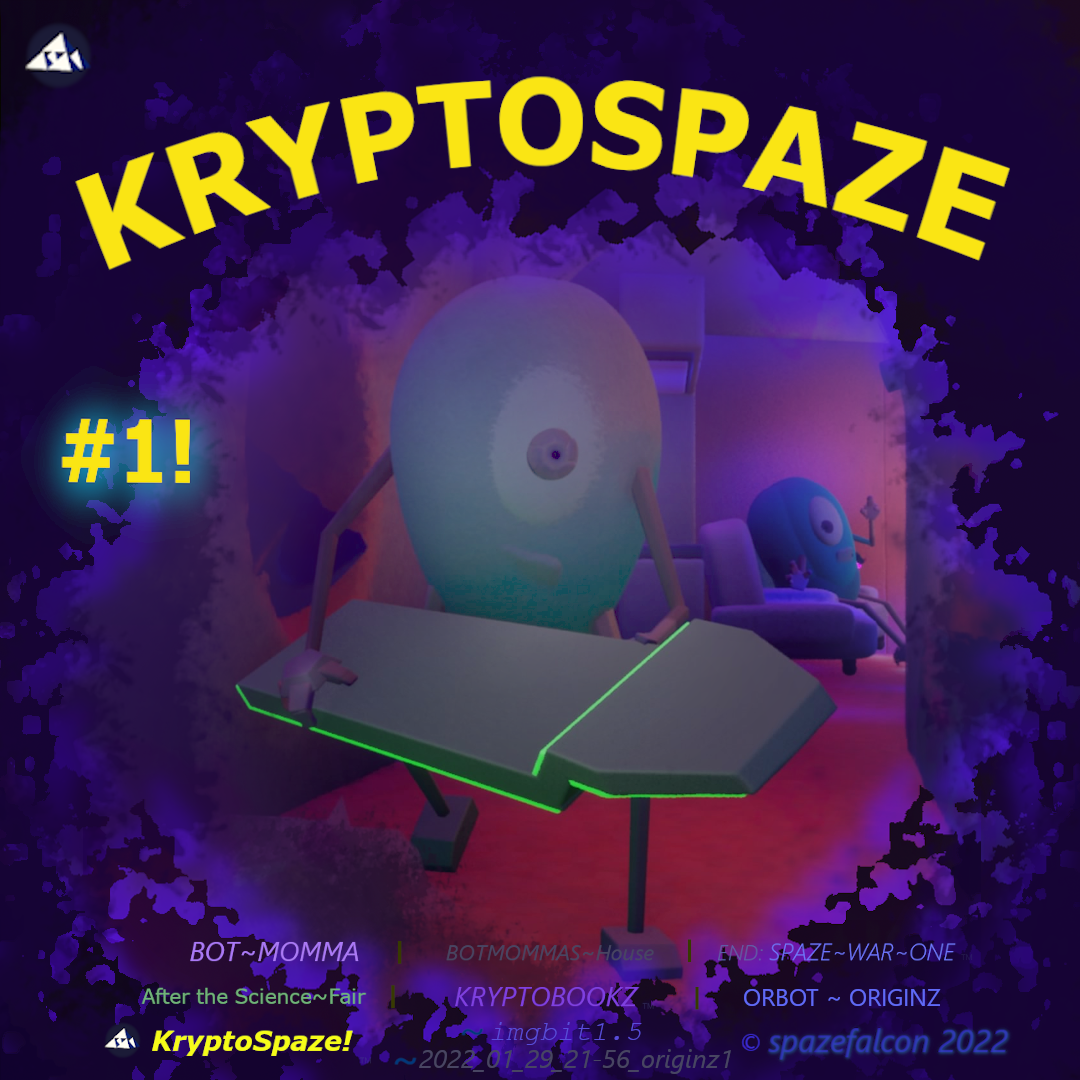
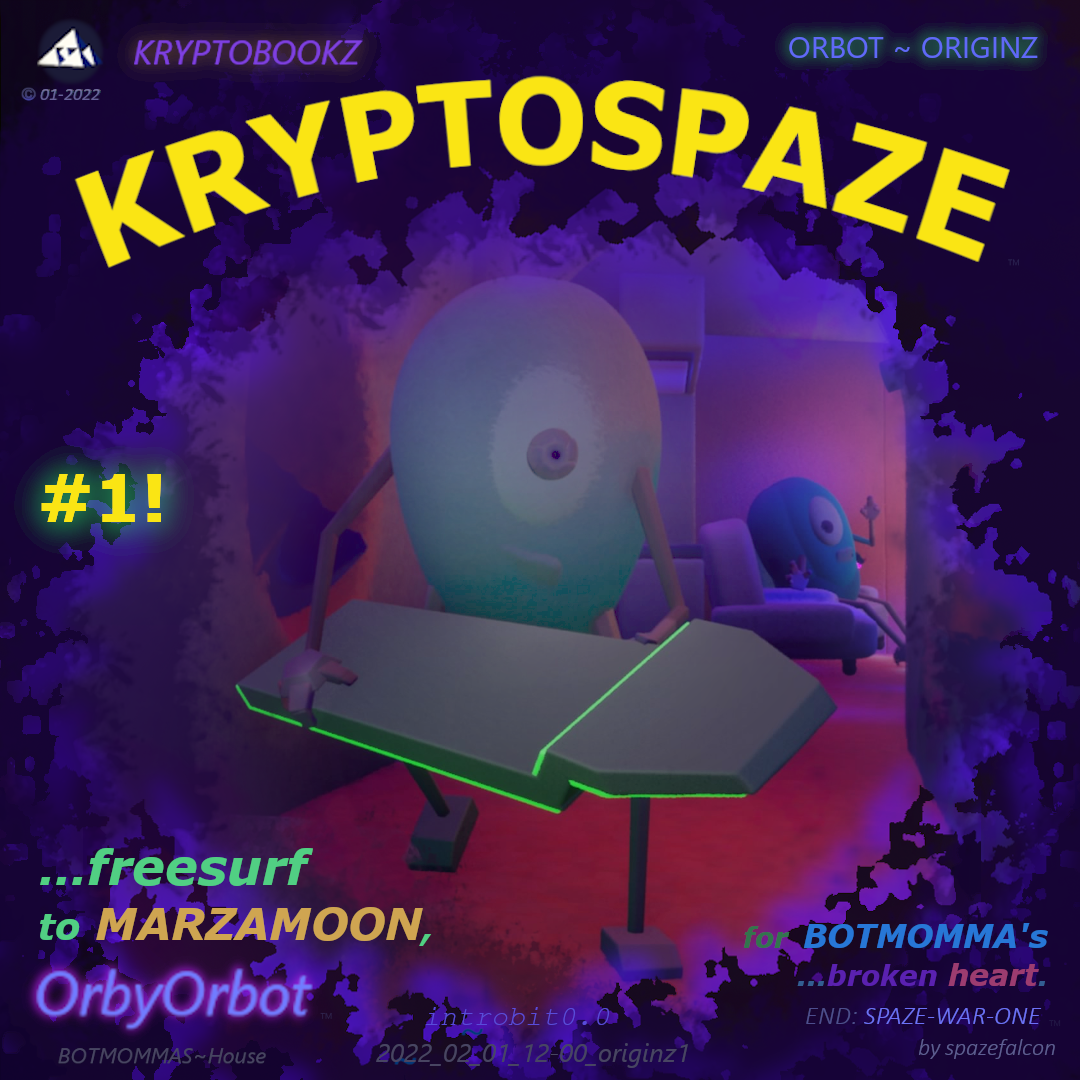
free scroll

diff --git a/KBZ_ENGINE_1.1.1/kryptoviz.js b/KBZ_ENGINE_1.1.1/kryptoviz.js
@@ -13,9 +13,11 @@
     // * by spazeFalcon
 
 // import { viz } from "./KBZ_ENGINE_1.1.1/kryptoviz.js";
-
-function createKRYPTOPAGE(bitz){
-//todo move to VIS
+/*********************************************************\
+ * CREATE-KRYPTO-PAGE - 
+ * //GENERIC CARD-TEMPLATE RENDERER (minimal behaviors)
+ \********************************************************/
+function createKRYPTOPAGE(bitz){  
     let pageFrame = document.createElement('section');
     pageFrame.style.backgroundColor = 'black';
     pageFrame.style.borderRadius = "10px";
@@ -37,8 +39,6 @@ function createKRYPTOPAGE(bitz){
     pageSpacer.style.boxShadow = "1px 1px 20px 0px blue";
     pageSpacer.classList.add('bit-spacer');
 
-
-
     var IMGBIT = document.createElement('article');
     IMGBIT.style.backgroundColor = 'black';
     // IMGBIT.style.backgroundColor = getRandoColor();
@@ -51,7 +51,6 @@ function createKRYPTOPAGE(bitz){
     IMGBIT.style.overflow = "hidden";     //CROP
     IMGBIT.style.marginBottom = "0em";   //CROP
 
-
     var imgCard1 = 0;
     if(bitz.IMG){
         imgCard1 = document.createElement('img'); //IMG  //OTHER IMAGE TYPES HERE
@@ -59,7 +58,7 @@ function createKRYPTOPAGE(bitz){
         imgCard1.style.width = "100%"
         imgCard1.style.boxShadow = `2px 2px 8px 4px ${getRandoColor()}`
         imgCard1.style.borderRadius = "18px"
-        imgCard1.style.marginBottom = "-6.666em"
+        imgCard1.style.marginBottom = "-6.666em"     //CROP
         imgCard1.addEventListener("click", ()=> {
             imgCard1.showDetails = (imgCard1.showDetails) ? 0 : 1;
             if(imgCard1.showDetails){
@@ -121,6 +120,112 @@ function createKRYPTOPAGE(bitz){
     if (pageFrame && TXTBIT) { pageFrame.insertAdjacentElement('beforeend', TXTBIT); }
     if (KRYPTOBOOKFrame1) { KRYPTOBOOKFrame1.insertAdjacentElement('beforeend', pageFrame); }
 } //END CREATE KRYPTO PAGE 
+/*********************************************************\
+ * Render KRYPTO INTRO.
+ * 
+ \********************************************************/
+ function createKRYPTOINTRO(bitz){  
+    let pageFrame = document.createElement('section');
+    pageFrame.style.backgroundColor = 'black';
+    pageFrame.style.borderRadius = "10px";
+    pageFrame.style.padding = "0.111em";
+    pageFrame.style.margin = "0.444em";
+    // pageFrame.style.marginBottom = "8.888%";
+    pageFrame.style.boxShadow = "1px 1px 20px 0px blue";
+    pageFrame.classList.add('bit-item');
+    pageFrame.id = bitz.IDX;//.replace('.','-'));
+    // console.log("render: ",bitz.IDX)
+    // let pageSpacer = document.createElement('section');
+    // pageSpacer.style.backgroundColor = 'black';
+    // pageSpacer.style.borderRadius = "10px";
+    // pageSpacer.style.padding = "0.111em";
+    // pageSpacer.style.margin = "0.444em";
+    // pageSpacer.style.height = "4.444em";
+    // // pageSpacer.style.marginBottom = "8.888%";
+    // pageSpacer.style.boxShadow = "1px 1px 20px 0px blue";
+    // pageSpacer.classList.add('bit-spacer');
+
+    var IMGBIT = document.createElement('article');
+    IMGBIT.style.backgroundColor = 'black';
+    // IMGBIT.style.backgroundColor = getRandoColor();
+    IMGBIT.style.border = "1px solid steelblue"
+    IMGBIT.style.borderRadius = "13px"
+    IMGBIT.style.padding = "0.888em"
+    IMGBIT.style.margin = "0.88em auto"
+    IMGBIT.style.maxWidth = "44em"
+    IMGBIT.style.cursor = "pointer"
+    // IMGBIT.style.overflow = "hidden";     //CROP
+    // IMGBIT.style.marginBottom = "0em";   //CROP
+
+    var imgCard1 = 0;
+    if(bitz.IMG){
+        imgCard1 = document.createElement('img'); //IMG  //OTHER IMAGE TYPES HERE
+        imgCard1.src = bitz.IMG; //large 600 size
+        imgCard1.style.width = "100%"
+        imgCard1.style.boxShadow = `2px 2px 8px 4px ${getRandoColor()}`
+        imgCard1.style.borderRadius = "18px"
+        // imgCard1.style.marginBottom = "-6.666em" //CROP
+        imgCard1.addEventListener("click", ()=> {
+            // imgCard1.showDetails = (imgCard1.showDetails) ? 0 : 1;
+            // if(imgCard1.showDetails){
+            //     imgCard1.style.marginBottom = "2.222em"
+            // }else{
+            //     imgCard1.style.marginBottom = "-6.666em"
+            // }
+        })
+    } 
+
+    // var TXTBIT = 0;
+    // if(bitz.TXT){
+    //     TXTBIT = document.createElement('article');
+    //     TXTBIT.style.backgroundColor = 'black';
+    //     // TXTBIT.style.backgroundColor = getRandoColor();
+    //     TXTBIT.style.boxShadow = "0px 0px 20px 1px blue"
+    //     TXTBIT.style.border = "1px solid purple"
+    //     TXTBIT.style.borderRadius = "13px"
+    //     TXTBIT.style.padding = "0.888em"
+    //     TXTBIT.style.margin = "0.88em auto"
+    //     TXTBIT.style.maxWidth = "42em"
+    //     TXTBIT.style.cursor = "pointer"
+    //     TXTBIT.style.overflow = "hidden";     //CROP
+    //     TXTBIT.style.marginBottom = "1em";   //CROP
+    //     TXTBIT.style.marginTop = "-6em";    //OVERLAP
+    //     TXTBIT.style.borderTop = "none";    //OVERLAP
+    // } else { //no btz.TXT
+        // pageFrame.style.marginTop="6.666em";  //no txt padding
+        // pageFrame.style.marginBottom="6.666em"; //no txt padding
+    // }
+
+    // var txtCard2 = 0;
+    // if(bitz.TXT){
+    //     txtCard2 = document.createElement('img'); //IMG  //OTHER IMAGE TYPES HERE
+    //     txtCard2.src = bitz.TXT; //large 600 size
+    //     txtCard2.style.width = "100%"
+    //     txtCard2.style.maxWidth = "32em"
+    //     // txtCard2.style.boxShadow = `2px 2px 8px 4px ${getRandoColor()}`
+    //     txtCard2.style.boxShadow = "inset rgb(30 84 200) 2px 2px 14px 8px"
+    //     txtCard2.style.borderRadius = "18px"
+    //     // txtCard2.style.marginBottom = "-6em"
+    //     txtCard2.style.marginBottom = "-5.666em"
+    //     txtCard2.style.marginTop = "3em"
+    //     txtCard2.addEventListener("click", ()=> {
+    //         txtCard2.showDetails = (txtCard2.showDetails) ? 0 : 1;
+    //         if(txtCard2.showDetails){
+    //             txtCard2.style.marginBottom = "0em"
+    //         }else{
+    //             txtCard2.style.marginBottom = "-5.666em"
+    //         }
+    //     })
+    // } 
+    //TODO Logic to add remove PAGE_SPACER, title page somehow...   
+    // if (KRYPTOBOOKFrame1 && bitz.IDX!="1.0") { KRYPTOBOOKFrame1.insertAdjacentElement('beforeend', pageSpacer); }
+    // if (pageFrame && pageCard) { pageFrame.insertAdjacentElement('beforeend', pageCard); }
+    if(imgCard1 && IMGBIT){IMGBIT.insertAdjacentElement('afterbegin', imgCard1);}
+    // if(txtCard2 && TXTBIT){TXTBIT.insertAdjacentElement('afterbegin', txtCard2);}
+    if (pageFrame && IMGBIT) { pageFrame.insertAdjacentElement('beforeend', IMGBIT); }
+    // if (pageFrame && TXTBIT) { pageFrame.insertAdjacentElement('beforeend', TXTBIT); }
+    if (KRYPTOBOOKFrame1) { KRYPTOBOOKFrame1.insertAdjacentElement('beforeend', pageFrame); }
+} //END CREATE KRYPTO PAGE 
 
 function getRandoColor(){
     const h = Math.floor(Math.random() * 344); 
@@ -130,6 +235,7 @@ function getRandoColor(){
 }
 
 let viz = {
+ createKRYPTOINTRO:createKRYPTOINTRO,
  createKRYPTOPAGE:createKRYPTOPAGE,
  getRandoColor:getRandoColor
 }

diff --git a/KBZ_ENGINE_1.1.1/kryptobookz.js b/KBZ_ENGINE_1.1.1/kryptobookz.js
@@ -58,11 +58,11 @@ function initPage(){
 /***************************************************************************************************\
  * GETDATA - all types of data requestFunctions here-. - : )
 \***************************************************************************************************/
-    function getNFTFactory(mode){
-        try{
+    function getNFTFactory(mode){ //NOTE: {mode = 7} //kryptobook
+        try{ 
             if (nftDisplay1) { nftDisplay1.innerHTML = ""; } //BLANK data view-.
             if(MainVw.idx){ //load specific index item-.
-                let keys = getNIFTYKeys(); //Search METANET, for SINGULAR LOOKUP-.
+                let keys = getNIFTYKeys(); //TODO rename -Search METANET, for SINGULAR LOOKUP-.
                 if(!keys){mode=6;} //error, render all-.
                 else{ //fetch singular NFT by idx
                     fetch(`https://api.opensea.io/api/v1/asset/${keys.a_c_a}/${keys.t_id}/`,{method: 'GET'})
@@ -139,10 +139,11 @@ function initPage(){
                 let getNFTCollectionsbyOwner={  //GETNFT Collections by Owner. - PLURAL COLLECTIONZ MULTIPLE!    
                     owner:"0x46f3397433384f2e31262596642c811929d6c069"}   
                 getNFTCollections(getNFTCollectionsbyOwner.owner)
-                //****************************************************************************
-            } else if (mode === 7){ //RENDER KRYPTOBOOK!!!
-                getKRYPTOBOOKZ();
-            }
+        //***********************KRYPTOBOOKZ*****************************************************
+        } else if (mode === 7){ //RENDER KRYPTOBOOK!!!
+            getKRYPTOBOOKZ();
+        }
+        //****************************************************************************
         // }); //END: GETNFT button click-.
         }catch(e){
             // statusDisplay1.innerHTML = "ERROR"+" no signal."; //e.message;
@@ -228,7 +229,7 @@ function initNIFTY(nft){
     if(nft.meta.main){ // MAIN - meta configurations
         if(nft.meta.main.snd===1){ //lookup nft data, for meta display
             nft.meta.main.snd = nft.animation_url;
-            //         animation_original_url: "https://storage.opensea.io/files/2917253280b68adf480bbb4493d881c3.mp3"
+            // animation_original_url: "https://storage.opensea.io/files/2917253280b68adf480bbb4493d881c3.mp3"
             // animation_url: "https://storage.opensea.io/files/2917253280b68adf480bbb4493d881c3.mp3"
             // permalink: "https://opensea.io/assets/0x495f947276749ce646f68ac8c248420045cb7b5e/32091639769859466206787752406743660124435242419967811135209154766242274344961"
         } else 
@@ -237,7 +238,7 @@ function initNIFTY(nft){
         }
     }
 }
-
+//todo rename to searchMETANET
 function getNIFTYKeys(){ //search METANET for idx keys for OpenSea individual lookup.
     let idxTGT = (METANET[MainVw.idx]) ? METANET[MainVw.idx].idx : null;
     if(idxTGT){ 
@@ -683,7 +684,12 @@ function getNIFTYKeys(){ //search METANET for idx keys for OpenSea individual lo
         //         showKRYPTOBOOK(0);
 
         // });
-        showKRYPTOBOOK(0,SPAZEBOOK_KRYPTOBITZ1);
+        //TODO (above) LOAD BITZ FROM BLOCKCHAIN. For now... use TEST CONTENT. : ) 
+
+        //LOAD page 0, then by user 1 by 1.
+        // showKRYPTO_Page(0,SPAZEBOOK_KRYPTOBITZ1);
+        //LOAD ALL PAGES, not one by one. Enable scrollability.
+        showKRYPTOBOOK_All(SPAZEBOOK_KRYPTOBITZ1)
     }
 
 }  //END MASSIVE INITPAGE FN. //todo move above krypto fns?
@@ -717,8 +723,10 @@ let SPAZEBOOK_KRYPTOBITZ1 = [
      IMG:"./copyrightNetCinematics/2022_ORIGINZ_BITZ/originz_IMGBIT1.6_mombot1.png",
      TXT:"./copyrightNetCinematics/2022_ORIGINZ_BITZ/originz_bit1.6_mombot_5x4_TXT.png"},
     {IDX:'1.7',
-     IMG:"./copyrightNetCinematics/2022_ORIGINZ_BITZ/originz_IMGBIT1.7_brokenheart1.png",
-     TXT:"./copyrightNetCinematics/2022_ORIGINZ_BITZ/originz_bit1.7_brokenheart_5x4_TXT.png"}
+     IMG:"./copyrightNetCinematics/2022_ORIGINZ_BITZ/originz_IMGBIT1.7_brokenheart2.png",
+     TXT:"./copyrightNetCinematics/2022_ORIGINZ_BITZ/originz_bit1.7_brokenheart_5x4_TXT.png"},
+    {IDX:'1.8',
+     IMG:"./copyrightNetCinematics/2022_ORIGINZ_BITZ/originz_ENDBIT1.png"},
 ]
 
 function nextPage(){
@@ -728,19 +736,19 @@ function nextPage(){
     if(SPAZEBOOK_IDX+1 === SPAZEBOOK_KRYPTOBITZ1.length){return;}
     // let nextIDX = (SPAZEBOOK_IDX+1 === renderedBitz.length) ? ++SPAZEBOOK_IDX: SPAZEBOOK_IDX = renderedBitz.length -1;
     if(SPAZEBOOK_IDX+1 === renderedBitz.length){ //CREATE NEW PAGE-.
-        // showKRYPTOBOOK(nextIDX,SPAZEBOOK_KRYPTOBITZ1); //ADD PAGE.
-        showKRYPTOBOOK(++SPAZEBOOK_IDX,SPAZEBOOK_KRYPTOBITZ1); //ADD PAGE.
+        // showKRYPTO_Page(nextIDX,SPAZEBOOK_KRYPTOBITZ1); //ADD PAGE.
+        showKRYPTO_Page(++SPAZEBOOK_IDX,SPAZEBOOK_KRYPTOBITZ1); //ADD PAGE.
         setTimeout(function(){
             let nextIDX = SPAZEBOOK_KRYPTOBITZ1[SPAZEBOOK_IDX].IDX
             document.getElementById(nextIDX).scrollIntoView({ behavior: 'smooth' });
             console.log('subttl')
-        },800)
+        },222)
     } else { //SHOW NEXT PAGE
         let nextIDX = SPAZEBOOK_KRYPTOBITZ1[++SPAZEBOOK_IDX].IDX
         setTimeout(function(){
             document.getElementById(nextIDX).scrollIntoView({ behavior: 'smooth' });
             // document.querySelector('#'+nextIDX).scrollIntoView({ behavior: 'smooth' });
-        },800)
+        },222)
     }
     updatePageState();
 }
@@ -812,9 +820,33 @@ function updatePageState(){ // grey page btns,
 
 
 }
-
-function showKRYPTOBOOK(idx, data){
+//TODO rename to showKRYPTO_Page
+// function showKRYPTOBOOK(idx, data){
+function showKRYPTO_Page(idx, data){
     viz.createKRYPTOPAGE(data[idx]); //createMETACARD(nft)
+}
+
+/*********************************************************************\
+ * SHOW KRYPTO BOOK ALL
+ \********************************************************************/
+function showKRYPTOBOOK_All(data){
+    //TODO this is the layer for 9GRID Integration (links visibility behavior, etc)
+    //TODO that, make the showBitz config object a wrapper around the contentBitz.
+    //TODO then, extend the IDX to pinata IPFS lookup of METANET obj.
+    // let showbitz = {}
+    //TODO solve IMGNOTXT and INTROBITZ TITLEBITZ and ENDBITZ and OUTROBITZ
+    //TODO SOLVE spacer "welcome" and 1|10 10|10
+    //Loop all the pages and render free scroll...
+    for(let i=0; i<data.length;i++){
+        if(i===0){
+            viz.createKRYPTOINTRO(data[i]); 
+        } else if(i==data.length-1){ //outro
+            viz.createKRYPTOINTRO(data[i]); 
+        } else{
+            viz.createKRYPTOPAGE(data[i]); //createMETACARD(nft)
+        }
+    }
+
 }
 
 //IMPORTANT INITIALIZE KRYPTOBOOKZ
